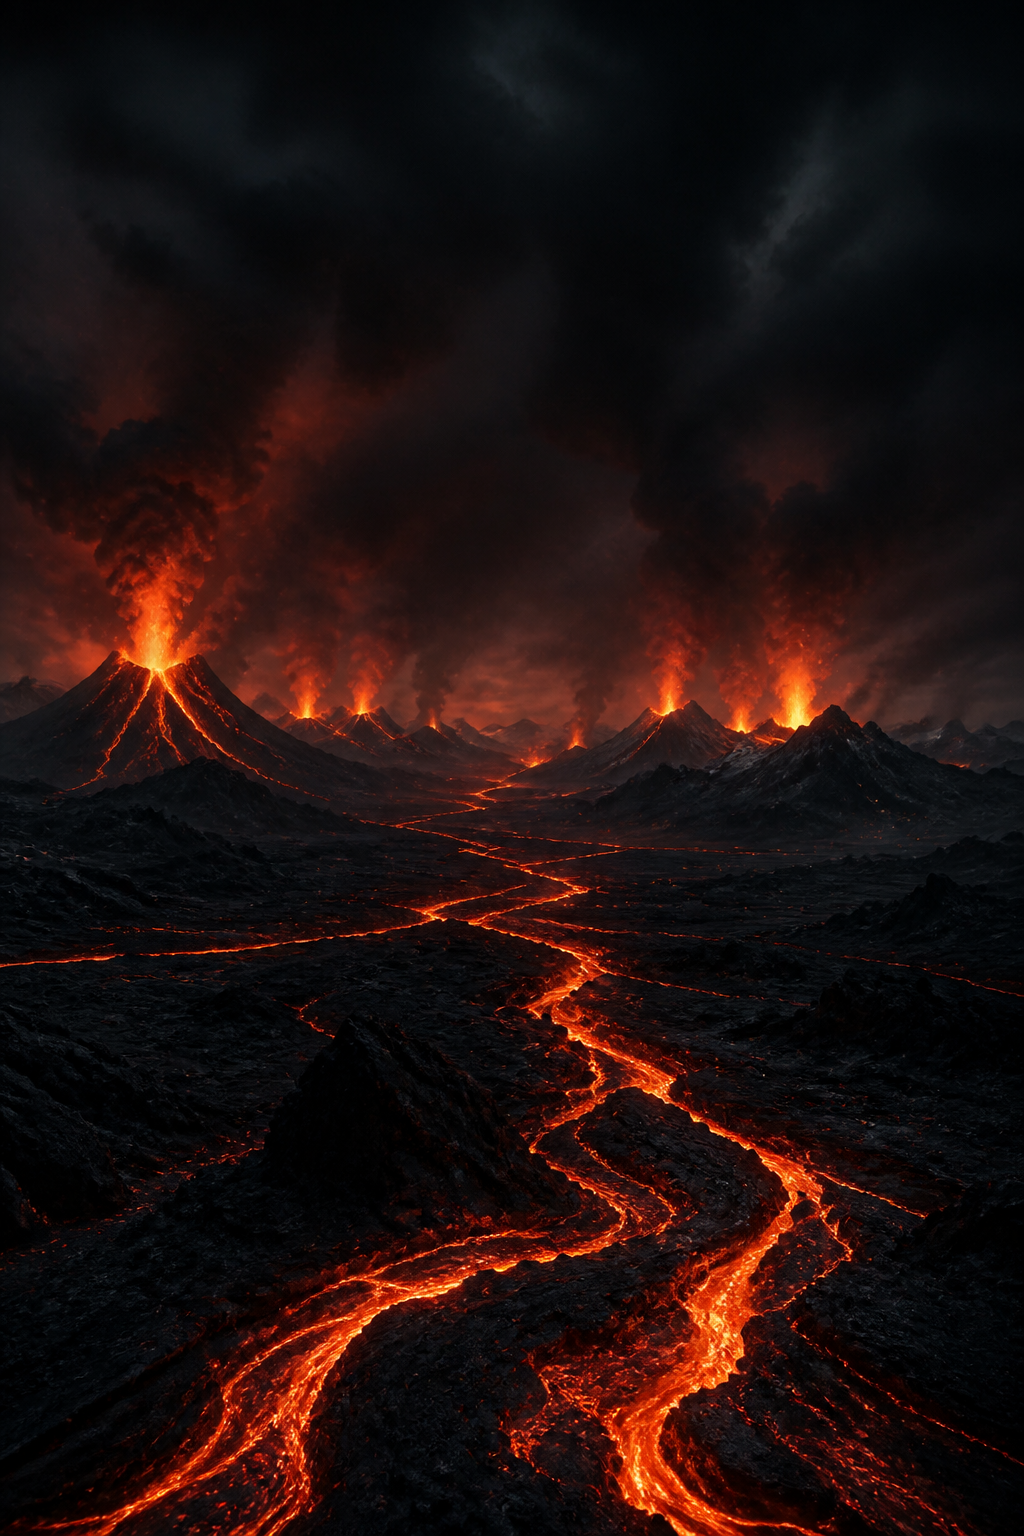
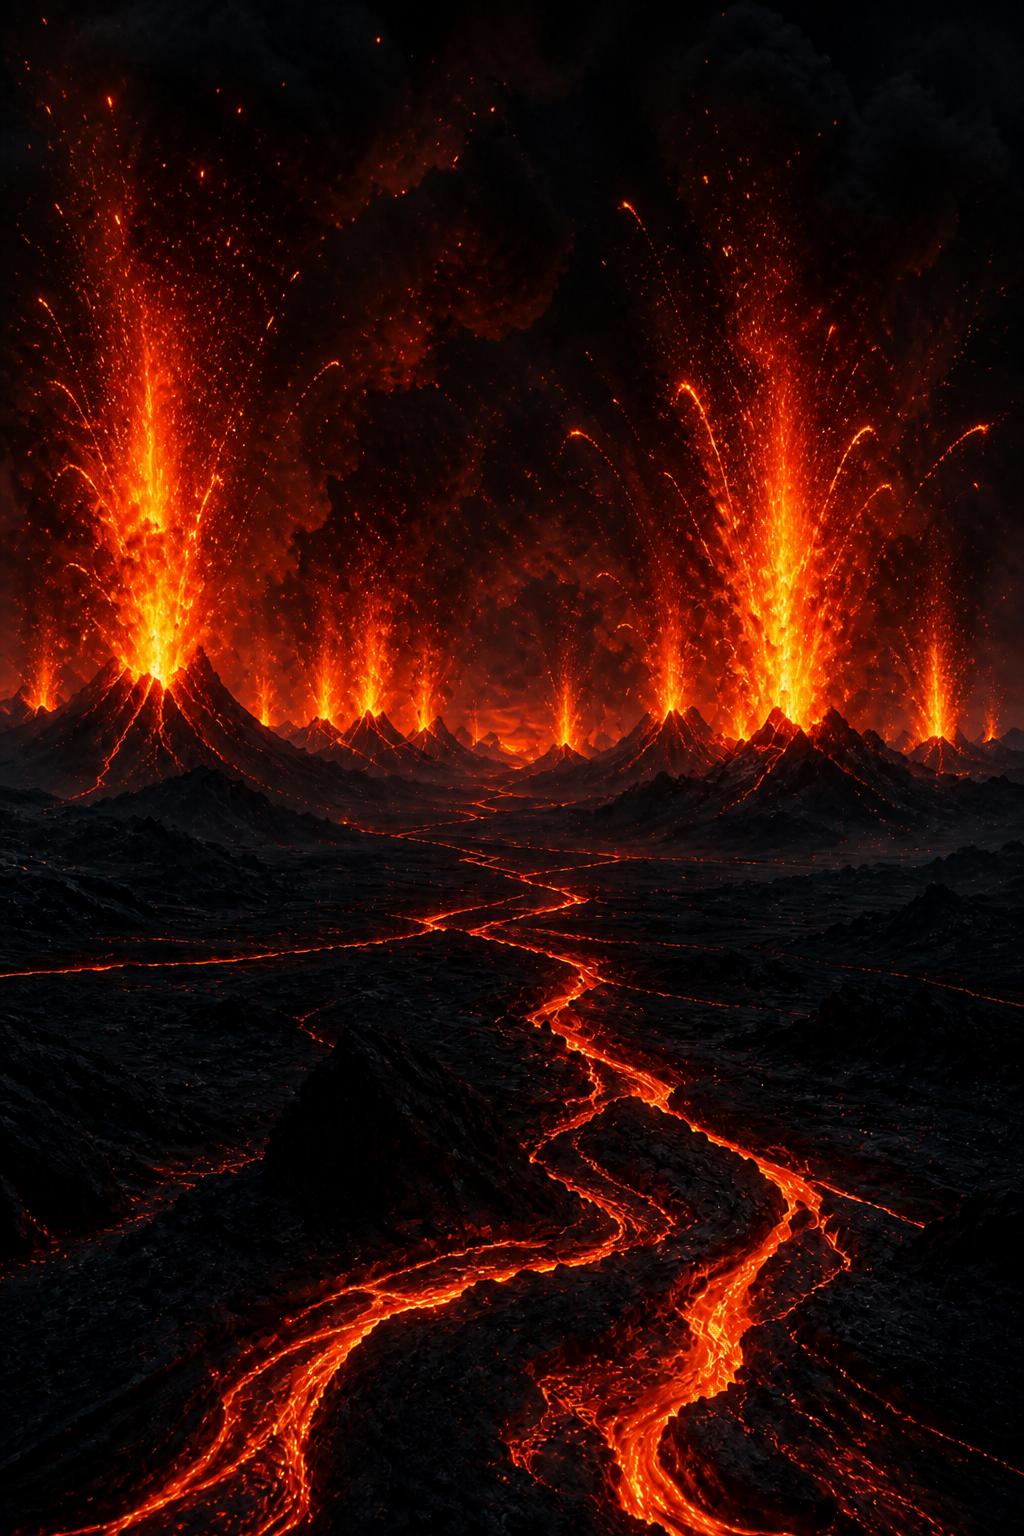
Match dial to concept art and make background 2 erupt.
Single rim of big blue 24-hour bars with purple minute marks between, 0-100 purple numbers inside, blue/purple beams matching the mark colors, darkened silhouette astronaut, and volcano background 2 regenerated with lava fountains erupting into the sky.

diff --git a/src/components/younEEK/ClockTicks.jsx b/src/components/younEEK/ClockTicks.jsx
@@ -1,71 +1,27 @@
-import { LAVA_DEEP, GOLD, fadeLavaMirror } from './clockConstants';
+import { BLUE, PURPLE } from './clockConstants';
 
-// Outer ring: 0-100 units, majors every 10
-const OUTER_TICKS = Array.from({ length: 100 }, (_, i) => {
-  const angle = (i / 100) * Math.PI * 2 - Math.PI / 2;
-  const isMajor = i % 10 === 0;
-  const outerR = 198;
-  const innerR = isMajor ? 183 : 191;
+// Single rim like the concept art: 24 big blue hour bars,
+// three smaller purple marks between each pair
+const RIM_TICKS = Array.from({ length: 96 }, (_, i) => {
+  const angle = (i / 96) * Math.PI * 2 - Math.PI / 2;
+  const isHour = i % 4 === 0;
+  const outerR = 197;
+  const innerR = isHour ? 178 : 188;
   return {
     x1: 200 + Math.cos(angle) * outerR,
     y1: 200 + Math.sin(angle) * outerR,
     x2: 200 + Math.cos(angle) * innerR,
     y2: 200 + Math.sin(angle) * innerR,
-    strokeWidth: isMajor ? 4 : 1.4,
-    color: fadeLavaMirror(i / 100),
-    key: `outer-${i}`,
-  };
-});
-
-// Inner ring: 0-24 hours, majors every 3
-const INNER_TICKS = Array.from({ length: 24 }, (_, i) => {
-  const angle = (i / 24) * Math.PI * 2 - Math.PI / 2;
-  const isMajor = i % 3 === 0;
-  const innerR = isMajor ? 149 : 155;
-  const outerR = 162;
-  return {
-    x1: 200 + Math.cos(angle) * innerR,
-    y1: 200 + Math.sin(angle) * innerR,
-    x2: 200 + Math.cos(angle) * outerR,
-    y2: 200 + Math.sin(angle) * outerR,
-    strokeWidth: isMajor ? 3.4 : 1.6,
-    color: fadeLavaMirror(i / 24),
-    key: `inner-${i}`,
+    strokeWidth: isHour ? 5.5 : 2.6,
+    color: isHour ? BLUE : PURPLE,
+    key: `rim-${i}`,
   };
 });
 
 export default function ClockTicks() {
   return (
     <svg viewBox="0 0 400 400" className="absolute inset-0 h-full w-full z-20 pointer-events-none">
-      <defs>
-        <linearGradient id="ringFade" x1="0%" y1="0%" x2="0%" y2="100%">
-          <stop offset="0%" stopColor={LAVA_DEEP} />
-          <stop offset="100%" stopColor={GOLD} />
-        </linearGradient>
-      </defs>
-
-      <circle cx="200" cy="200" r="172.5" stroke="black" strokeWidth="22" fill="none" />
-
-      <circle
-        cx="200"
-        cy="200"
-        r="162"
-        stroke="url(#ringFade)"
-        strokeWidth="1"
-        fill="none"
-        strokeDasharray="4 5"
-      />
-
-      <circle
-        cx="200"
-        cy="200"
-        r="199"
-        stroke="url(#ringFade)"
-        strokeWidth="1.4"
-        fill="none"
-      />
-
-      {OUTER_TICKS.map((t) => (
+      {RIM_TICKS.map((t) => (
         <line
           key={t.key}
           x1={t.x1}
@@ -75,19 +31,7 @@ export default function ClockTicks() {
           stroke={t.color}
           strokeWidth={t.strokeWidth}
           strokeLinecap="round"
-        />
-      ))}
-
-      {INNER_TICKS.map((t) => (
-        <line
-          key={t.key}
-          x1={t.x1}
-          y1={t.y1}
-          x2={t.x2}
-          y2={t.y2}
-          stroke={t.color}
-          strokeWidth={t.strokeWidth}
-          strokeLinecap="round"
+          style={{ filter: `drop-shadow(0 0 3px ${t.color}99)` }}
         />
       ))}
     </svg>

diff --git a/src/components/younEEK/ClockHands.jsx b/src/components/younEEK/ClockHands.jsx
@@ -1,4 +1,4 @@
-import { GOLD, HAND_RED } from './clockConstants';
+import { BLUE, PURPLE } from './clockConstants';
 import { getHandRotations } from '@/lib/clockPrefs';
 
 const CX = 200;
@@ -38,6 +38,7 @@ function BeamArm({ x, y, angle, armH, rodTip, color, clipId, mirror }) {
           height={armH}
           preserveAspectRatio="xMidYMid meet"
           clipPath={`url(#${clipId})`}
+          style={{ filter: 'brightness(0.45) contrast(1.15)' }}
         />
       </g>
     </g>
@@ -60,7 +61,7 @@ export default function ClockHands({ time, source = 'youneek' }) {
       </defs>
 
       {/* Wide static stance like the concept art */}
-      <g transform={`rotate(${LEG_SPREAD_DEG} ${CX - 10} ${HIP_Y})`} style={{ filter: 'drop-shadow(0 2px 6px #000000aa)' }}>
+      <g transform={`rotate(${LEG_SPREAD_DEG} ${CX - 10} ${HIP_Y})`} style={{ filter: 'brightness(0.42) contrast(1.15) drop-shadow(0 2px 6px #000000aa)' }}>
         <image
           href="/astro-leg.png"
           x={CX - 10 - LEG_W / 2}
@@ -70,7 +71,7 @@ export default function ClockHands({ time, source = 'youneek' }) {
           preserveAspectRatio="none"
         />
       </g>
-      <g transform={`rotate(${-LEG_SPREAD_DEG} ${CX + 10} ${HIP_Y})`} style={{ filter: 'drop-shadow(0 2px 6px #000000aa)' }}>
+      <g transform={`rotate(${-LEG_SPREAD_DEG} ${CX + 10} ${HIP_Y})`} style={{ filter: 'brightness(0.42) contrast(1.15) drop-shadow(0 2px 6px #000000aa)' }}>
         <image
           href="/astro-leg.png"
           x={CX + 10 - LEG_W / 2}
@@ -89,14 +90,14 @@ export default function ClockHands({ time, source = 'youneek' }) {
         width={92 * 0.719}
         height={92}
         preserveAspectRatio="xMidYMid meet"
-        style={{ filter: 'drop-shadow(0 2px 8px #000000cc)' }}
+        style={{ filter: 'brightness(0.45) contrast(1.15) drop-shadow(0 2px 8px #000000cc)' }}
       />
 
-      {/* Hour hand: left arm gripping a red beam */}
-      <BeamArm x={L_SHOULDER_X} y={L_SHOULDER_Y} angle={hour} armH={HOUR_ARM_H} rodTip={HOUR_ROD_TIP} color={HAND_RED} clipId="armClipHour" mirror />
+      {/* Hour hand: left arm gripping a blue beam */}
+      <BeamArm x={L_SHOULDER_X} y={L_SHOULDER_Y} angle={hour} armH={HOUR_ARM_H} rodTip={HOUR_ROD_TIP} color={BLUE} clipId="armClipHour" mirror />
 
-      {/* Minute hand: right arm gripping a bright gold beam */}
-      <BeamArm x={R_SHOULDER_X} y={R_SHOULDER_Y} angle={minute} armH={MIN_ARM_H} rodTip={MIN_ROD_TIP} color={GOLD} clipId="armClipMin" />
+      {/* Minute hand: right arm gripping a purple beam */}
+      <BeamArm x={R_SHOULDER_X} y={R_SHOULDER_Y} angle={minute} armH={MIN_ARM_H} rodTip={MIN_ROD_TIP} color={PURPLE} clipId="armClipMin" />
     </svg>
   );
 }

diff --git a/src/components/younEEK/ClockLabels.jsx b/src/components/younEEK/ClockLabels.jsx
@@ -1,28 +1,26 @@
-import { fadeLavaMirror } from './clockConstants';
+import { BLUE, PURPLE } from './clockConstants';
 
 const polarPoint = (radius, angleDeg) => {
   const angle = (angleDeg - 90) * (Math.PI / 180);
   return { x: 200 + Math.cos(angle) * radius, y: 200 + Math.sin(angle) * radius };
 };
 
-// Outer ring: 0-100 units, 0 at the top
-const outerLabels = Array.from({ length: 10 }, (_, i) => {
-  const value = i * 10;
+// Outer ring: 24-hour labels like the concept art
+const outerLabels = Array.from({ length: 8 }, (_, i) => {
+  const value = i * 3;
   return {
-    label: String(value),
-    angle: value * 3.6,
-    color: fadeLavaMirror(value / 100),
+    label: String(value).padStart(2, '0'),
+    angle: value * 15,
     key: `o-${value}`,
   };
 });
 
-// Inner ring: 0-24 hours
-const innerLabels = Array.from({ length: 8 }, (_, i) => {
-  const value = i * 3;
+// Inner ring: 0-100 units
+const innerLabels = Array.from({ length: 10 }, (_, i) => {
+  const value = i * 10;
   return {
     label: String(value),
-    angle: value * 15,
-    color: fadeLavaMirror(value / 24),
+    angle: value * 3.6,
     key: `i-${value}`,
   };
 });
@@ -31,7 +29,7 @@ export default function ClockLabels() {
   return (
     <svg viewBox="0 0 400 400" className="absolute inset-0 h-full w-full pointer-events-none">
       {outerLabels.map((item) => {
-        const p = polarPoint(170, item.angle);
+        const p = polarPoint(163, item.angle);
         return (
           <text
             key={item.key}
@@ -39,11 +37,11 @@ export default function ClockLabels() {
             y={p.y}
             textAnchor="middle"
             dominantBaseline="middle"
-            fill={item.color}
-            fontSize="13"
+            fill={BLUE}
+            fontSize="16"
             fontFamily="monospace"
             fontWeight="700"
-            style={{ fill: item.color }}
+            style={{ fill: BLUE, filter: `drop-shadow(0 0 3px ${BLUE}88)` }}
           >
             {item.label}
           </text>
@@ -59,11 +57,11 @@ export default function ClockLabels() {
             y={p.y}
             textAnchor="middle"
             dominantBaseline="middle"
-            fill={item.color}
+            fill={PURPLE}
             fontSize="9"
             fontFamily="monospace"
             fontWeight="700"
-            style={{ fill: item.color }}
+            style={{ fill: PURPLE, filter: `drop-shadow(0 0 2px ${PURPLE}77)` }}
           >
             {item.label}
           </text>

diff --git a/src/components/younEEK/ClockDial.jsx b/src/components/younEEK/ClockDial.jsx
@@ -3,7 +3,7 @@ import { motion } from 'framer-motion';
 import ClockTicks from './ClockTicks';
 import ClockLabels from './ClockLabels';
 import ClockHands from './ClockHands';
-import { LAVA_DEEP } from './clockConstants';
+import { BLUE } from './clockConstants';
 
 const DEFAULT_CENTER_IMAGE = '/astronaut-dial-bg.png';
 const BANNED_FACES = ['/clock-face-default.jpg', 'clock-face-default'];
@@ -62,7 +62,7 @@ export default function ClockDial({ time, isGlitching, source = 'youneek' }) {
       <div
         className="absolute inset-0 rounded-full pointer-events-none z-40"
         style={{
-          border: `1.5px solid ${LAVA_DEEP}`,
+          border: `1.5px solid ${BLUE}`,
         }}
       />
     </motion.div>
